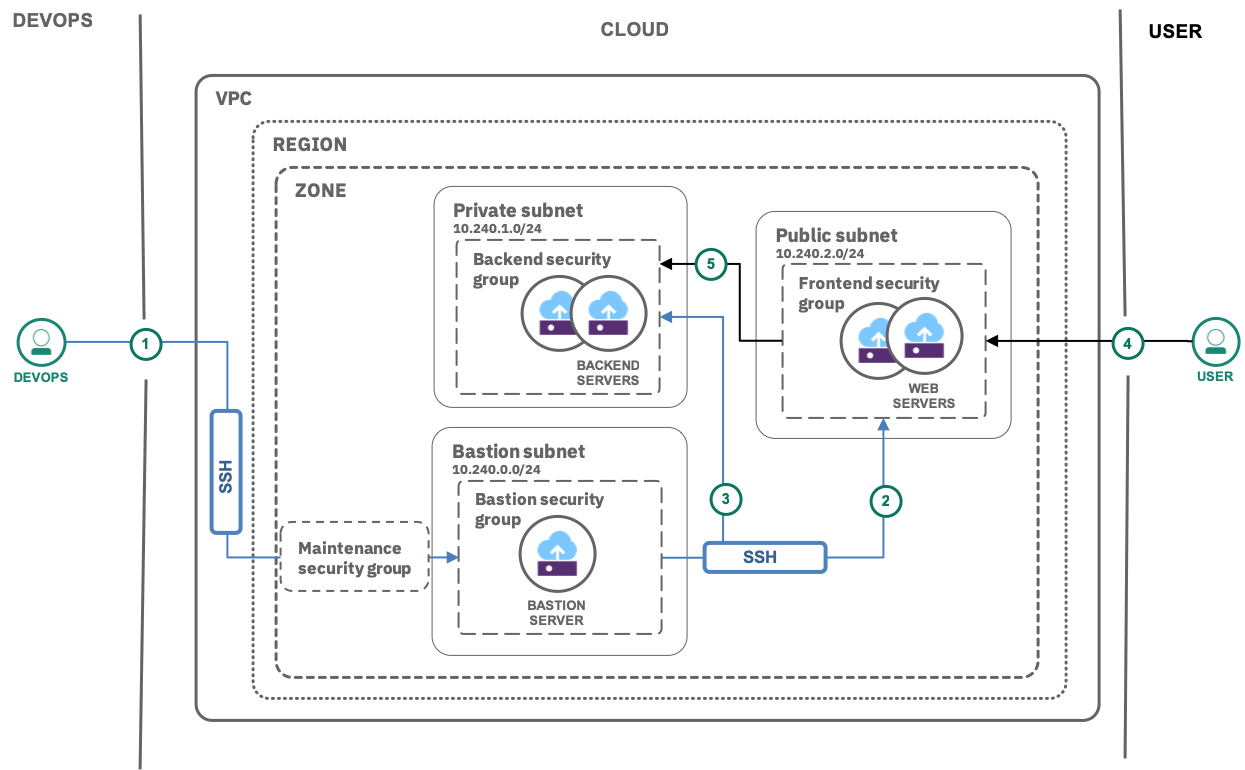
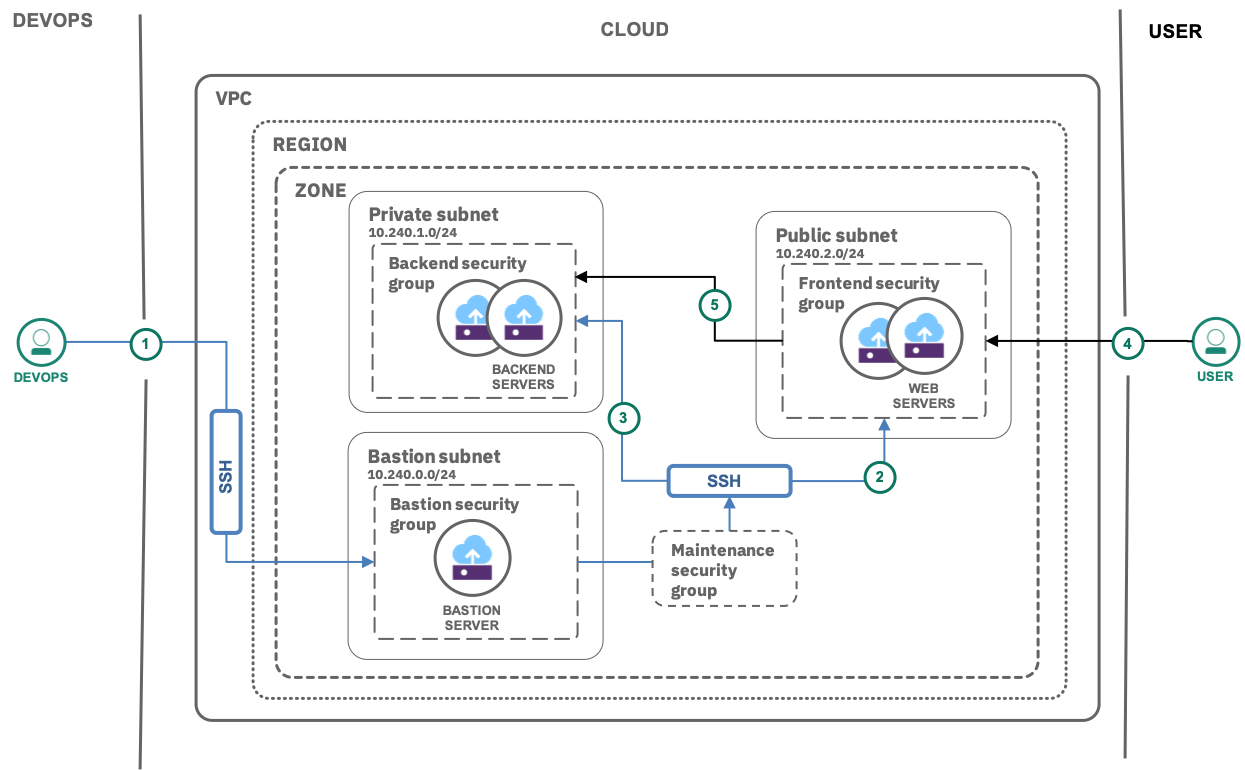
sol 40: updates based on review comments

diff --git a/vpc-public-app-private-backend.md b/vpc-public-app-private-backend.md
@@ -58,10 +58,10 @@ This tutorial may incur costs. Use the [Pricing Calculator](https://{DomainName}
 ![Architecture](images/solution40-vpc-public-app-private-backend/Architecture2.png)
 
 
-1. After setting up the required infrastructure (subnets, security groups with rules, VSIs) on the cloud, the admin(DevOps) assigns a maintenance security group with proper outbound rules and connects(SSH) to the bastion server using the private SSH key.
-2. Connects securely to the frontend instance's **public IP address** via bastion server to install or update any required frontend software e.g.,a web server.
-3. Connects securely to the backend instance's **private IP address** via bastion server to install or update any required backend software e.g.,a database server
-4. The internet user connects to web server on frontend. 
+1. After setting up the required infrastructure (subnets, security groups with rules, VSIs) on the cloud, the admin(DevOps) connects(SSH) to the bastion server using the private SSH key.
+2. The admin assigns a maintenance security group with proper outbound rules and connects securely to the frontend instance's **public IP address** via bastion server to install or update any required frontend software e.g.,a web server.
+3. The admin assigns a maintenance security group with proper outbound rules connects securely to the backend instance's **private IP address** via bastion server to install or update any required backend software e.g.,a database server
+4. The internet user makes a HTTP/HTTPS request to the web server on frontend. 
 5. Frontend requests private resources from secured backend and serves results to user.
 
 ## Before you begin
